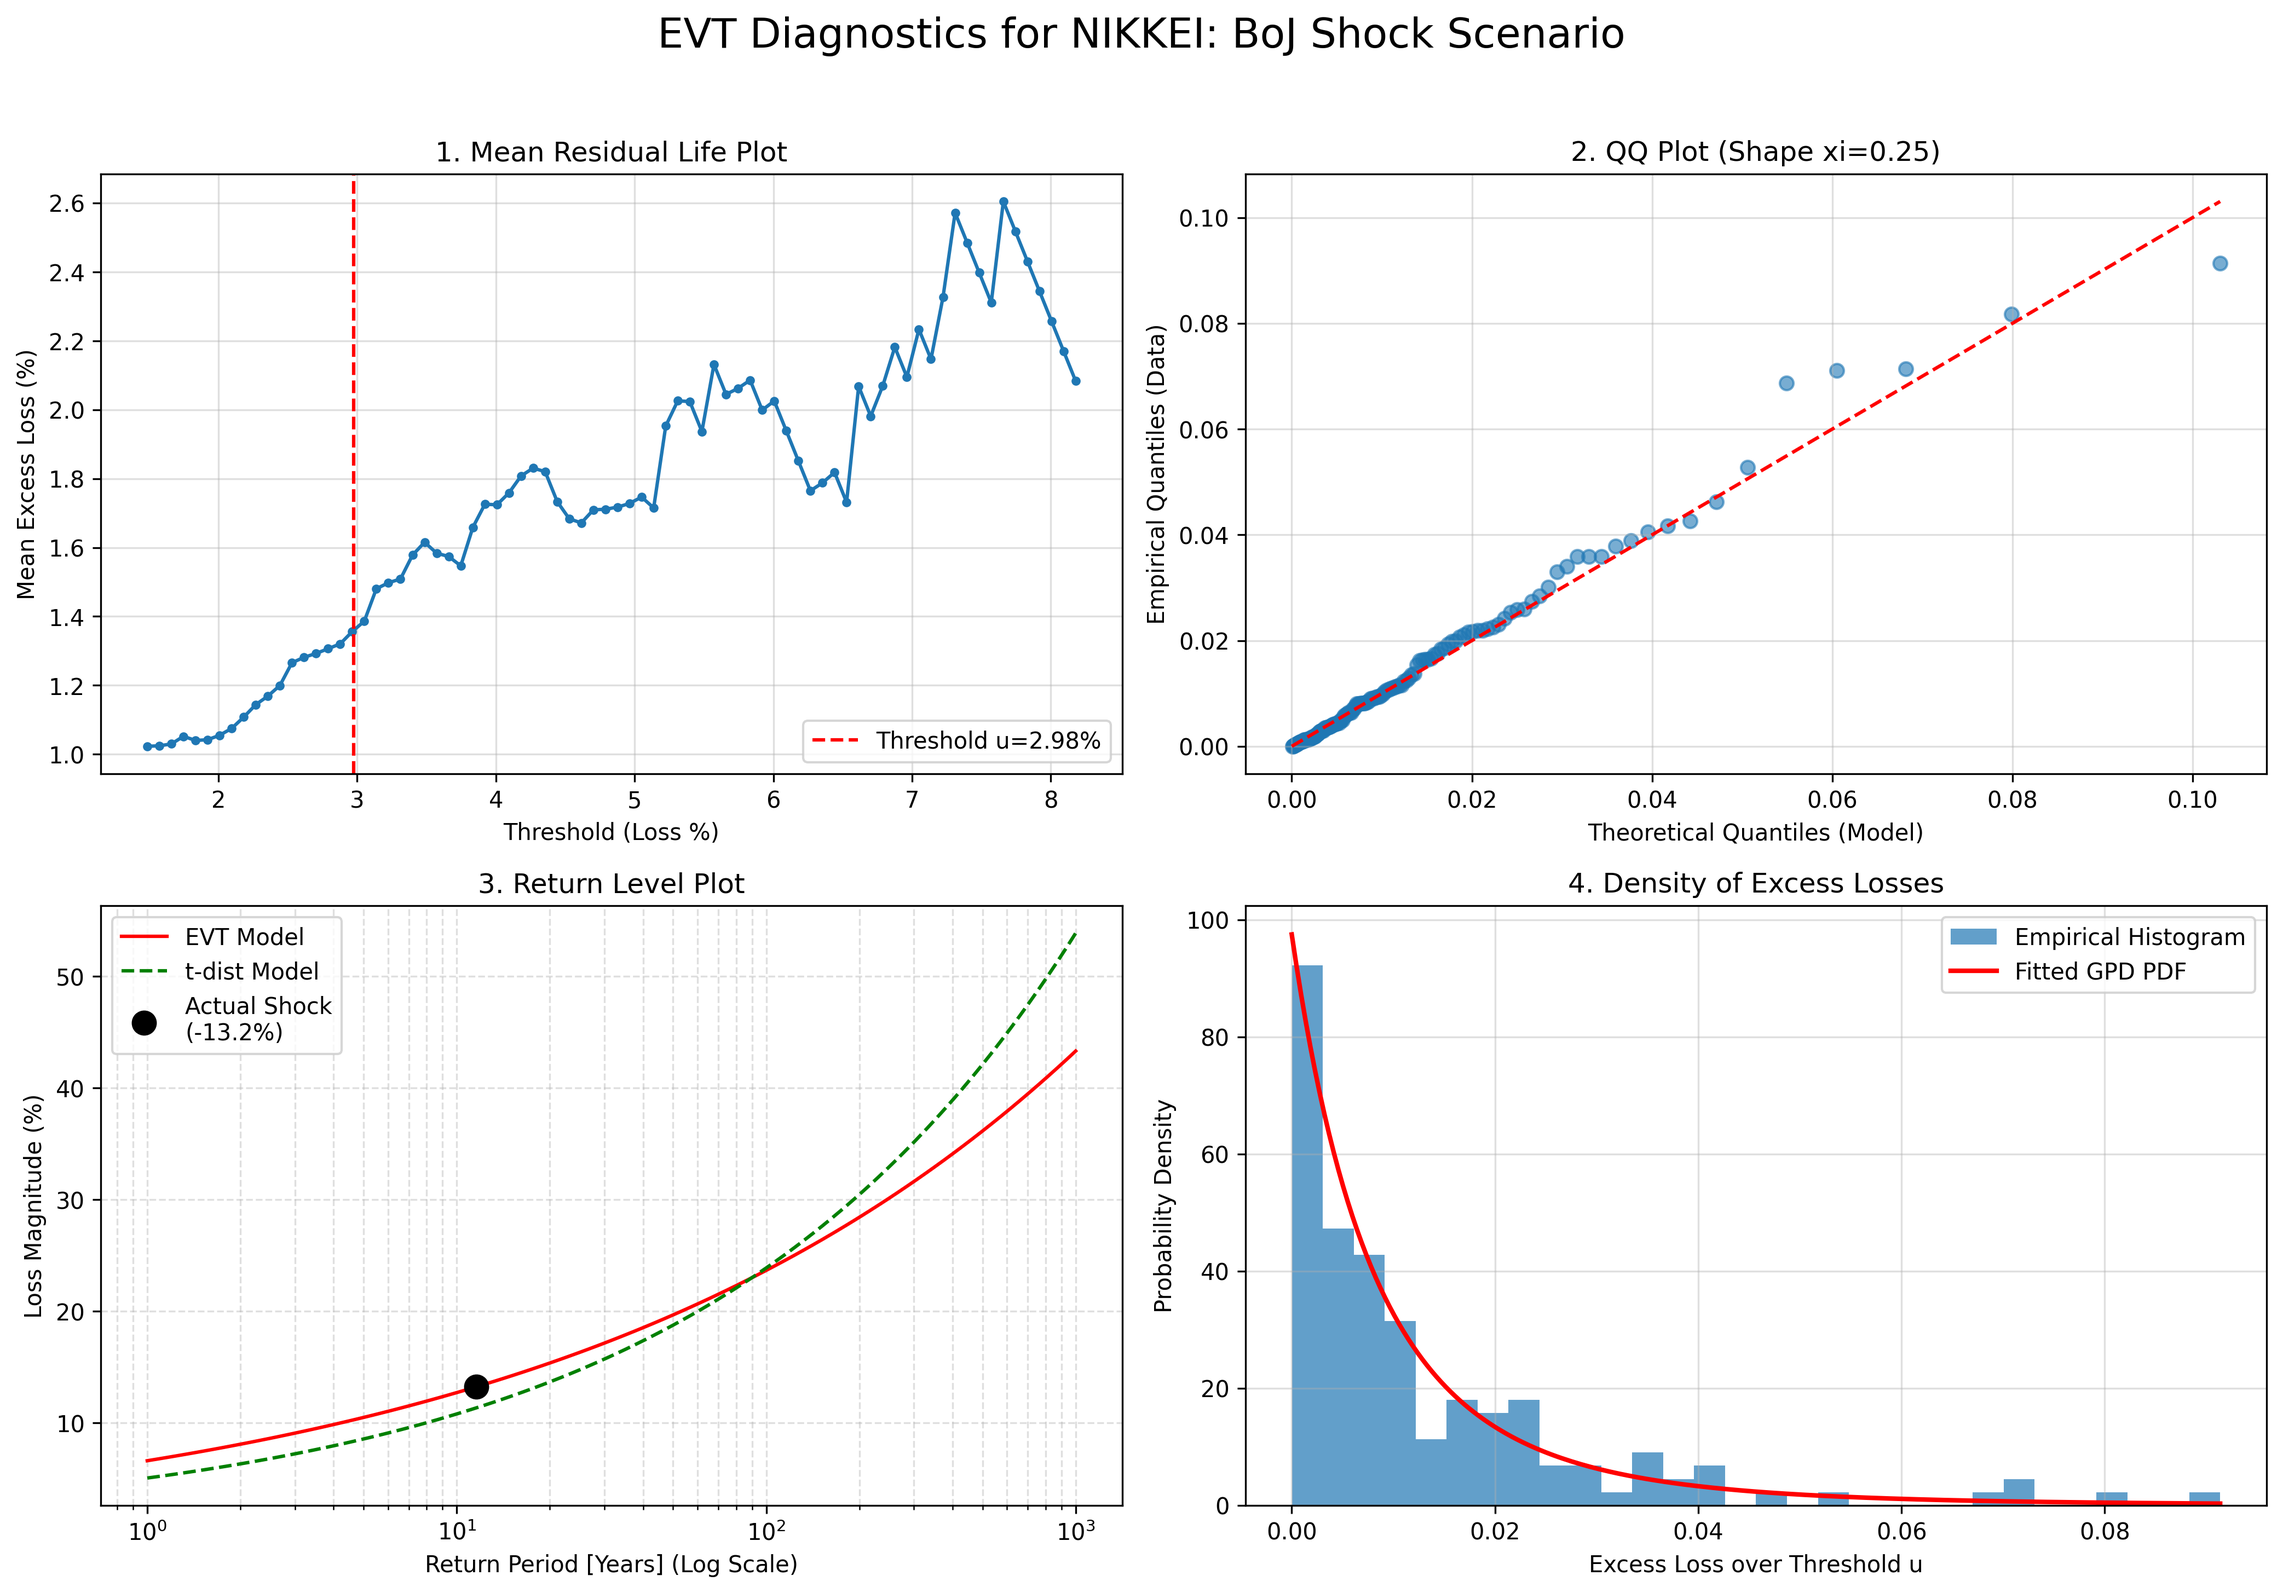
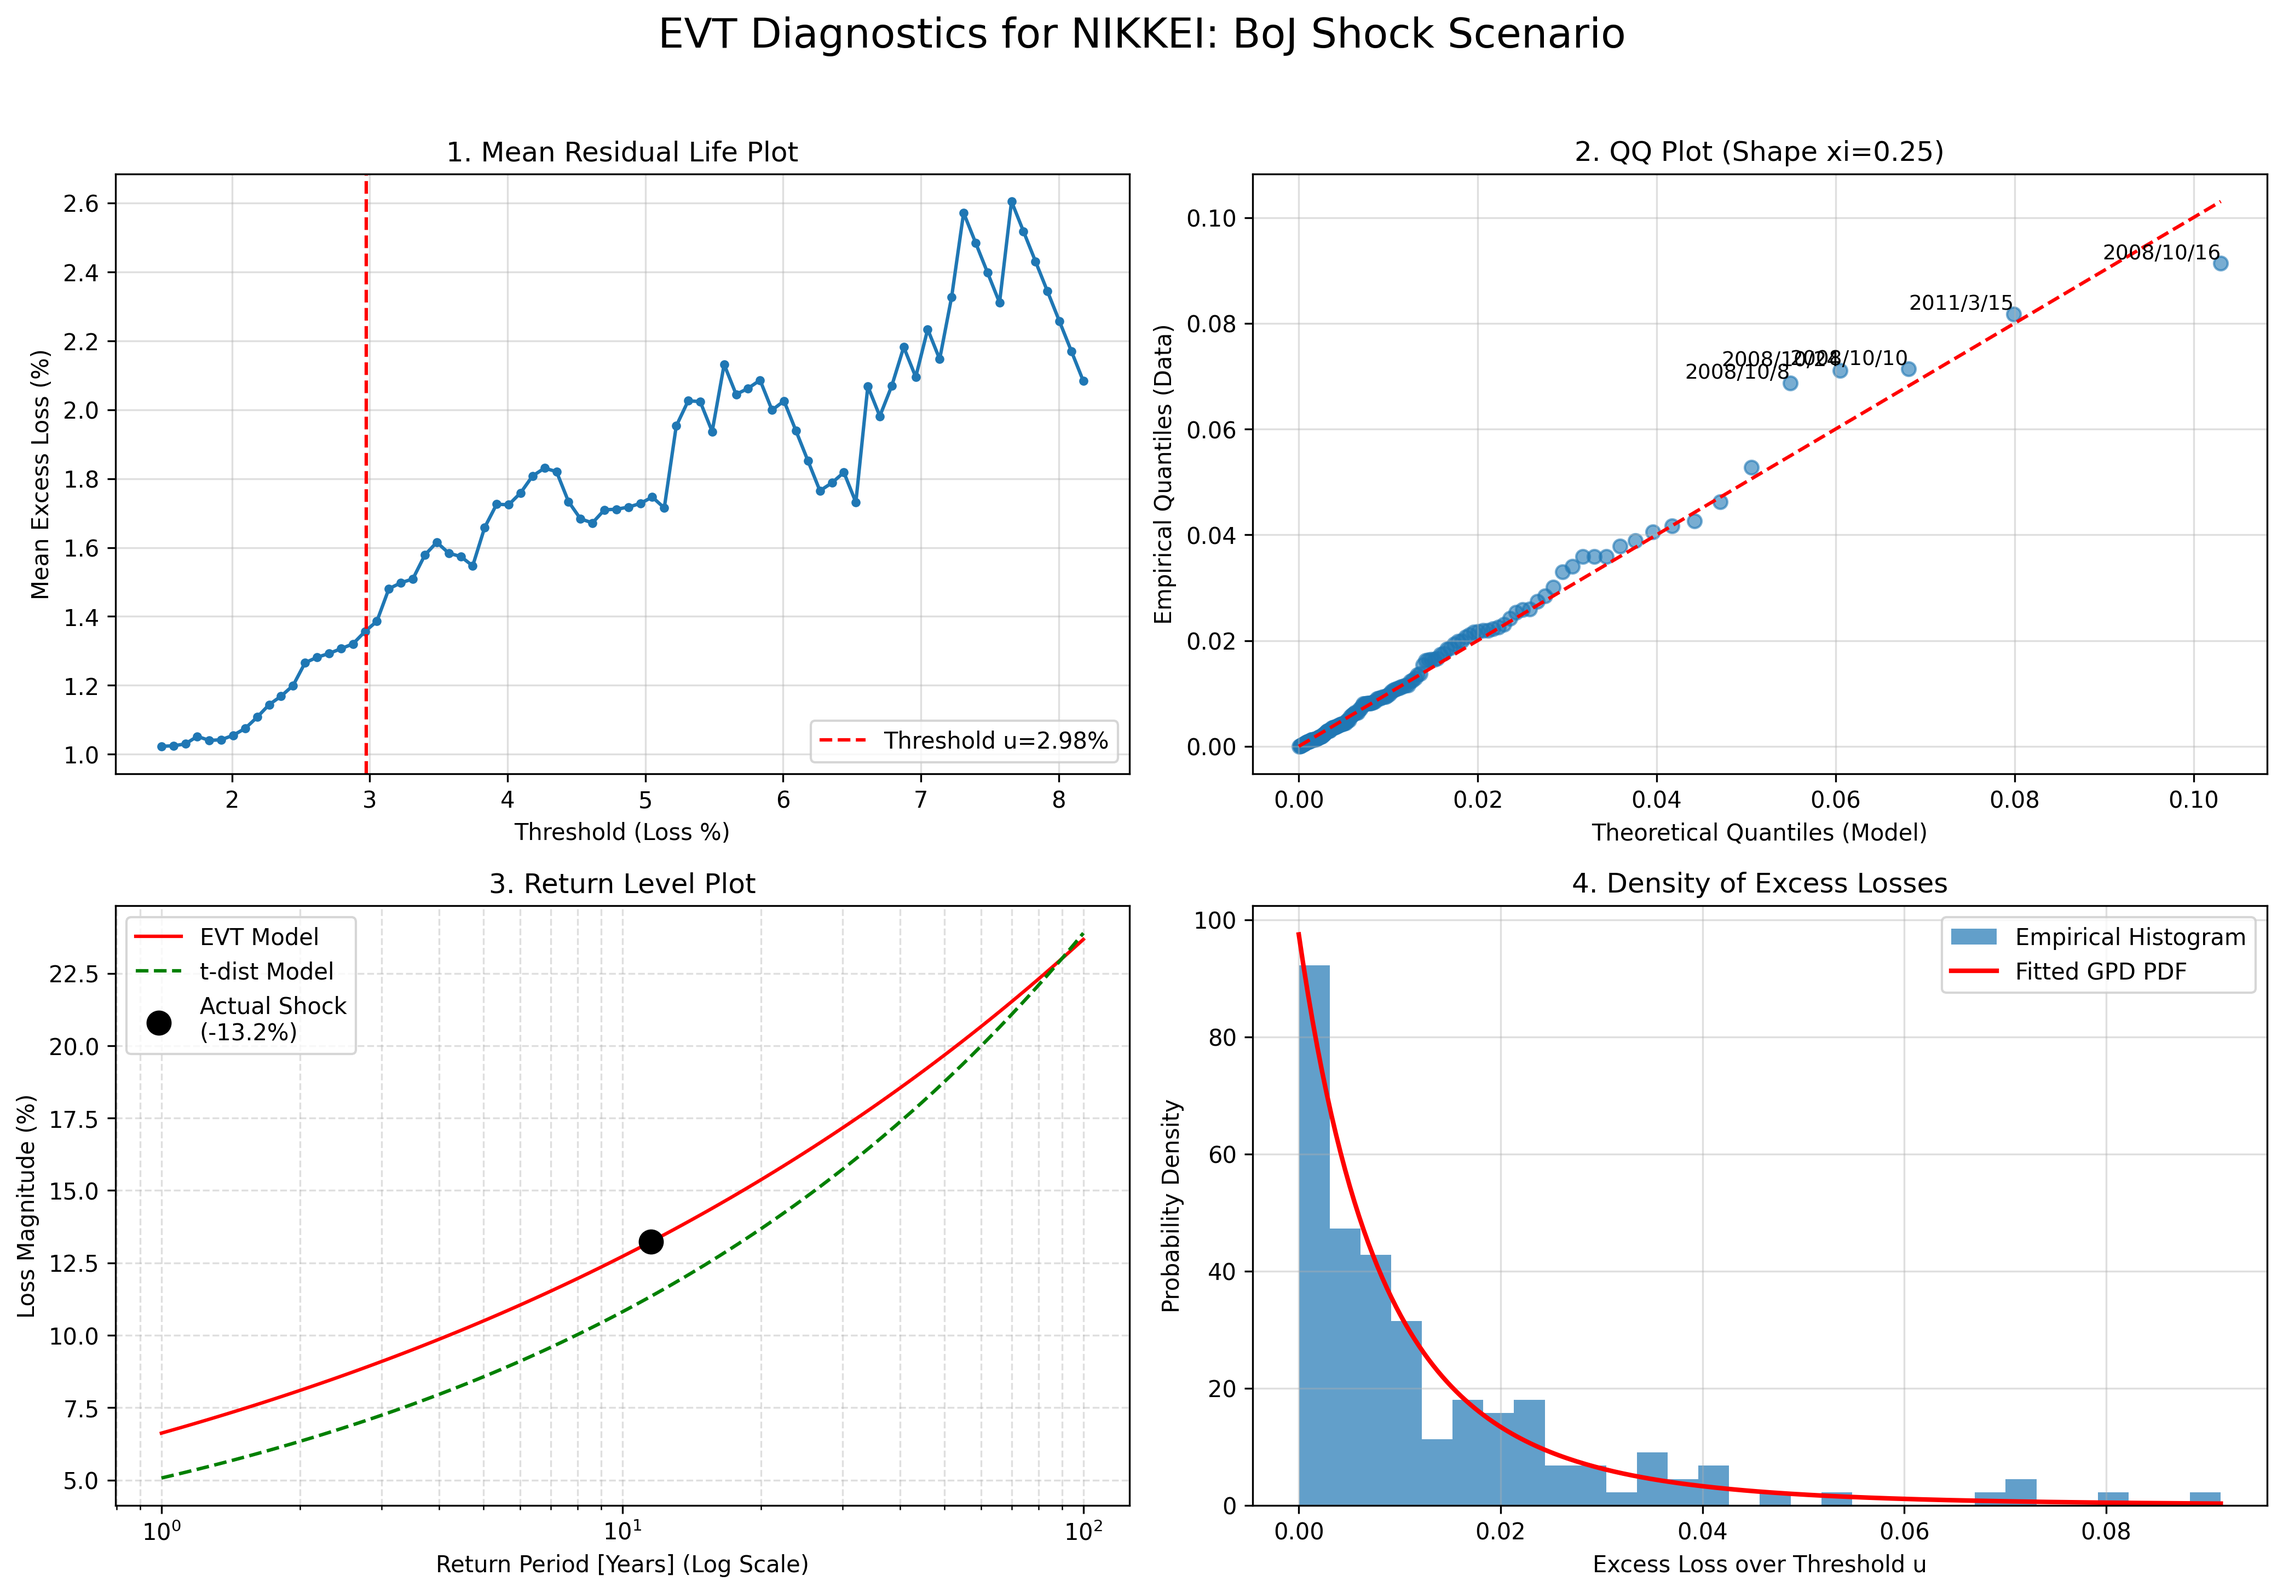
fix

diff --git a/evt.py b/evt.py
@@ -117,12 +117,24 @@ def plot_evt_diagnostics(analyzer: EVTAnalyzer, shock_name: str, actual_loss: fl
     ax2.scatter(theoretical_quantiles, sorted_excess.values, alpha=0.6)
     max_val = max(sorted_excess.max(), theoretical_quantiles.max())
     ax2.plot([0, max_val], [0, max_val], 'r--')
+    
+    # 上位5件に日付ラベルを追加
+    if analyzer.Nu >= 5:
+        top5 = sorted_excess.tail(5)
+        top5_theoretical_quantiles = theoretical_quantiles[-5:]
+        for i in range(len(top5)):
+            date_obj = top5.index[i]
+            date_label = f"{date_obj.year}/{date_obj.month}/{date_obj.day}"
+            x_pos = top5_theoretical_quantiles[i]
+            y_pos = top5.values[i]
+            ax2.text(x_pos, y_pos, date_label, fontsize=9, ha='right', va='bottom')
+            
     ax2.set(title=f'2. QQ Plot (Shape xi={xi:.2f})', xlabel='Theoretical Quantiles (Model)', ylabel='Empirical Quantiles (Data)')
     ax2.grid(True, alpha=0.4)
 
     # 3. Return Level Plot
     ax3 = fig.add_subplot(2, 2, 3)
-    rps = np.logspace(0, 3, 100) # 1年から1000年
+    rps = np.logspace(0, 2, 100) # 1年から1000年
     prob = 1 / (ANNUAL_TRADING_DAYS * rps)
     if xi > 0:
         evt_levels = analyzer.u + (beta / xi) * ((((analyzer.n / analyzer.Nu) * prob)**(-xi)) - 1)
